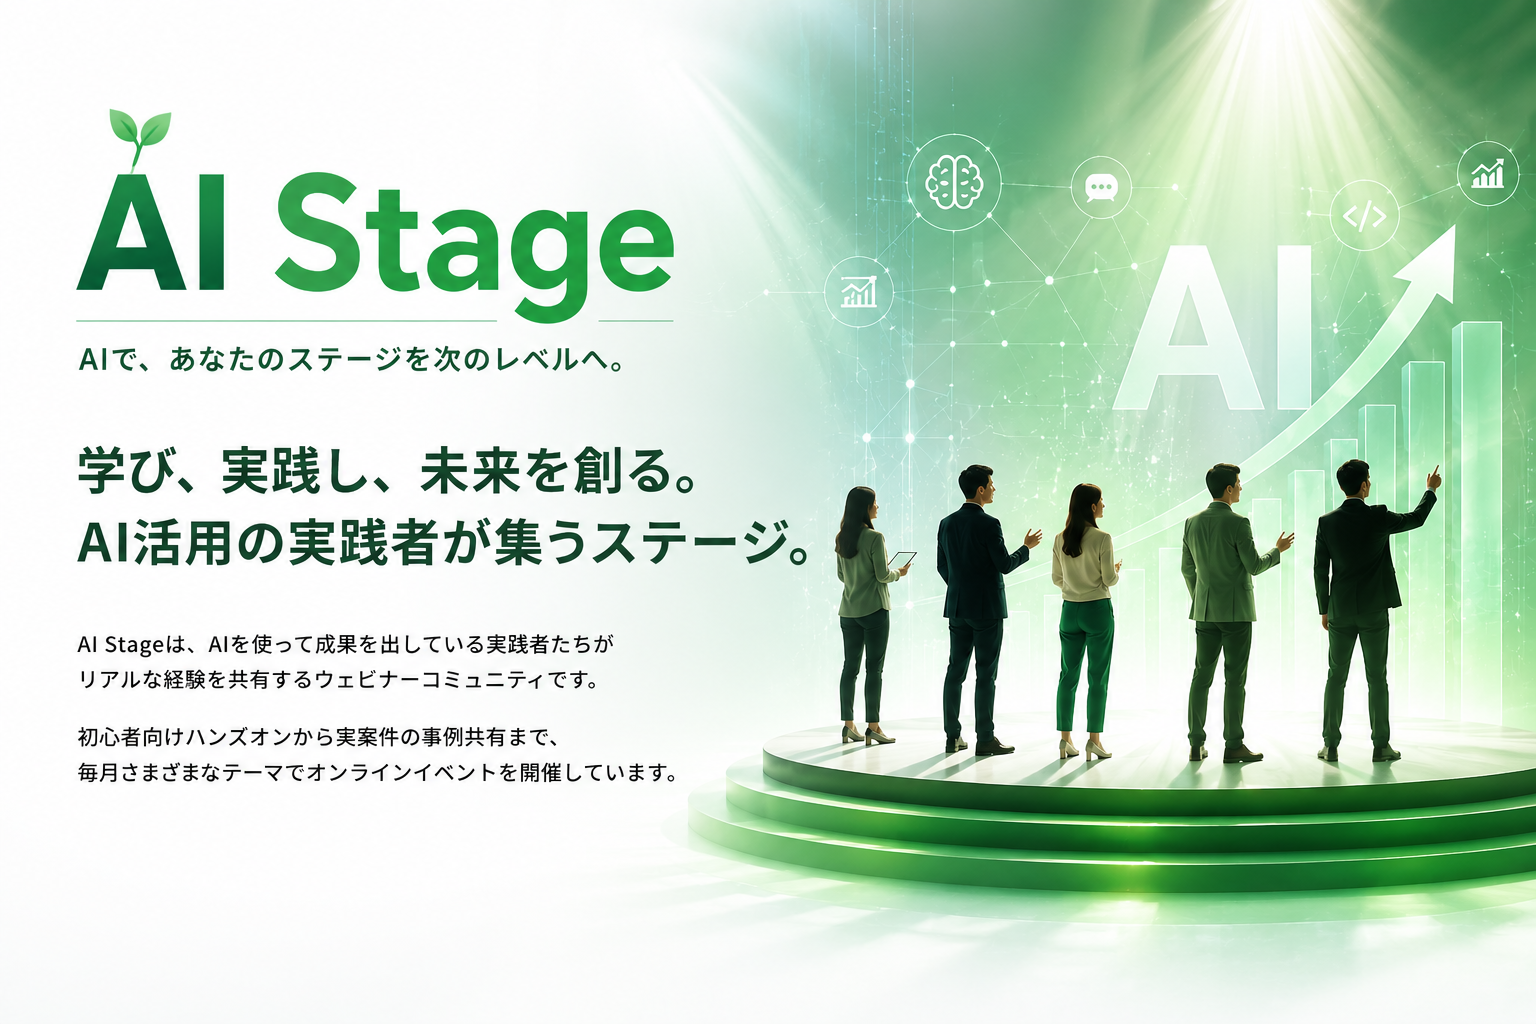
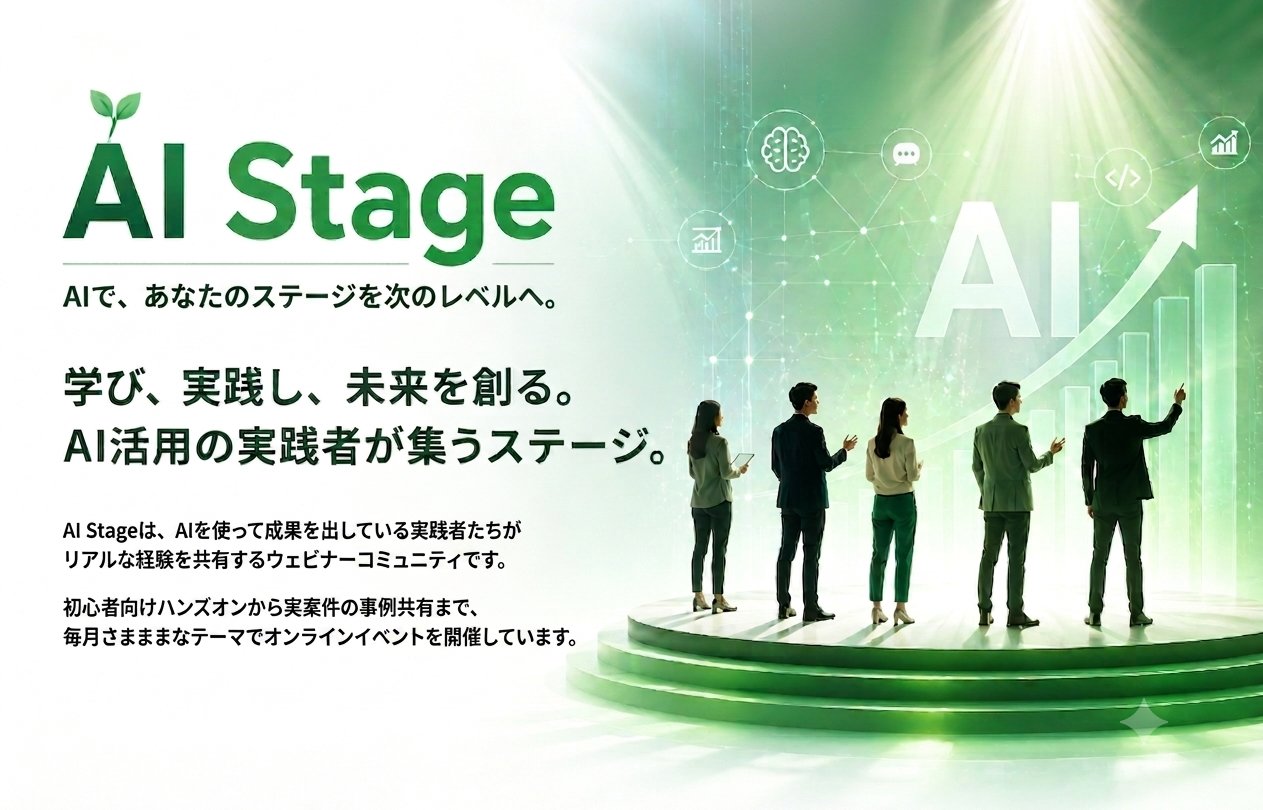
メンバープロフィールをフォーム回答に更新・フォントサイズ調整
- フォーム回答があった5名（Hitoshi Lab/miomiu/勝又稔宏/ひっきー/みさき）のプロフィールを本人回答内容に更新
- サイト内の表示名をフォーム回答名に統一（Toshihiro Katsumata→勝又稔宏、Hitoshi→Hitoshi Lab、清水秀明→ひっきー）
- #about .section-desc のfont-sizeをclampから18pxに統一
- 開催実績・募集中詳細・登壇実績・今後の予定のテキストを18px→16pxに縮小
- hero-pc.png・ogp.png を更新

diff --git a/index.html b/index.html
@@ -92,7 +92,7 @@ a:hover{opacity:.75}
   color:var(--text);
 }
 .section-desc{font-size:18px;color:var(--text2);max-width:560px}
-#about .section-desc{max-width:none;font-size:clamp(.78rem,.95rem + .1vw,1rem);}
+#about .section-desc{max-width:none;font-size:18px;}
 .section-note{font-size:.78rem;color:var(--muted);margin-top:.3rem}
 .section-header{margin-bottom:2.5rem}
 section{padding:5rem 0}
@@ -249,8 +249,8 @@ nav{
 .timeline-meta{display:flex;align-items:center;flex-wrap:wrap;gap:.5rem;margin-bottom:.5rem}
 .timeline-date{font-size:.75rem;color:var(--muted)}
 .timeline-title{font-size:1rem;font-weight:700;margin-bottom:.4rem;line-height:1.4;color:var(--text)}
-.timeline-speaker{font-size:18px;color:var(--accent);margin-bottom:.5rem}
-.timeline-desc{font-size:18px;color:var(--text2);line-height:1.6}
+.timeline-speaker{font-size:16px;color:var(--accent);margin-bottom:.5rem}
+.timeline-desc{font-size:16px;color:var(--text2);line-height:1.6}
 .timeline-stats{display:flex;flex-wrap:wrap;gap:.5rem;margin-top:.8rem}
 .timeline-peatix-link{display:inline-block;margin-top:.8rem;font-size:16px;font-weight:700;color:#15803d;background:#f0fdf4;border:1.5px solid #22c55e;border-radius:8px;padding:.45em 1.1em;text-decoration:none;transition:background .2s,color .2s;}
 .timeline-peatix-link:hover{background:#22c55e;color:#fff;}
@@ -302,7 +302,7 @@ nav{
   display:flex;align-items:center;gap:.4rem;
   font-size:18px;font-weight:600;color:var(--text);margin-bottom:1rem;
 }
-.current-event-desc{font-size:18px;color:var(--text2);line-height:1.75;margin-bottom:1.4rem}
+.current-event-desc{font-size:16px;color:var(--text2);line-height:1.75;margin-bottom:1.4rem}
 .current-event-highlights{display:flex;flex-direction:column;gap:.5rem;margin-bottom:1.6rem}
 .highlight-item{
   display:flex;align-items:flex-start;gap:.6rem;
@@ -330,7 +330,7 @@ nav{
 }
 .upcoming-name{font-weight:700;font-size:18px;color:var(--text)}
 .upcoming-theme{font-size:18px;color:var(--accent);font-weight:600;margin:.2rem 0}
-.upcoming-desc{font-size:18px;color:var(--text2)}
+.upcoming-desc{font-size:16px;color:var(--text2)}
 
 /* ================================================================
    ABOUT SPECIALTIES
@@ -450,7 +450,7 @@ nav{
 }
 .achievement-item{
   display:flex;align-items:flex-start;gap:.5rem;
-  font-size:18px;color:#374151;line-height:1.5;
+  font-size:16px;color:#374151;line-height:1.5;
   padding:.3rem 0;border-bottom:1px solid #e5e7eb;
 }
 .achievement-item:last-child{border-bottom:none}
@@ -734,7 +734,7 @@ const CURRENT_EVENT = {
   image: "/event-gofuku.png",
   imageAlt: "第2回ウェビナー：ごふくの日LP実装事例",
   title: "ごふくの日LPで過去最高集客──AI×20時間の実装記／三代目本人登壇",
-  speaker: "Hitoshi",
+  speaker: "Hitoshi Lab",
   datetime: "2026年6月25日（木）21:00〜21:30",
   desc: "呉服店のランディングページをAIで実装し、運用まで行ったリアルなプロジェクト実践記を公開します。クライアント本人もゲストとして登壇予定。アーカイブなしのライブ限定開催です。",
   highlights: [
@@ -755,7 +755,7 @@ const PAST_EVENTS = [
     date: "2026.05",
     badge: { text: "開催済み", type: "green" },
     title: "絵が描けなくてもOK！ChatGPTで作るオリジナルLINEスタンプ",
-    speaker: "Toshihiro Katsumata",
+    speaker: "勝又稔宏",
     desc: "AI初心者でも30分でオリジナルスタンプが完成するハンズオン体験会。満足度93%を達成。",
     stats: [],
     peatixUrl: "https://peatix.com/event/5000088",
@@ -764,7 +764,7 @@ const PAST_EVENTS = [
     date: "2026.06",
     badge: { text: "受付中", type: "accent" },
     title: "ごふくの日LPで過去最高集客──AI×20時間の実装記／三代目本人登壇",
-    speaker: "Hitoshi",
+    speaker: "Hitoshi Lab",
     desc: "呉服店のLPをAIで実装し「ごふくの日」に過去最高集客を達成。三代目当主本人も登壇するリアルな対談形式。",
     stats: [],
     peatixUrl: "https://peatix.com/event/5038871",
@@ -806,18 +806,21 @@ const UPCOMING_SPEAKERS = [
 const MEMBERS = [
   /* ── 1: 現在受付中の登壇者 ── */
   {
-    name: "Hitoshi",
-    handle: "Hitoshi",
+    name: "Hitoshi Lab",
+    handle: "Hitoshi Lab",
     photo: "",
     role: "第2回登壇者",
     roleBadge: { text: "登壇済", type: "green" },
-    bio: "呉服店のLPをAIで実装し「ごふくの日」に過去最高集客を達成。制作後のモニタリング・改善運用まで一貫してサポートするマーケティング視点のAI実装が得意。",
-    specialties: ["LP制作・運用", "AIコンサル", "マーケティング", "業務改善"],
+    bio: "IT業界25年・金融基幹系出身のシニアPM/エンジニア。納期厳守とフィードバック設計、24時間以内応答を一貫して実践してきました。生成AI（Claude・Gemini・NotebookLM）を用いて「理論ではなく実クライアントの案件で動かす」ことを軸に、LP制作からAIセミナー登壇まで、作って終わりにしない伴走を信条としています。",
+    specialties: ["AXコンサルタント", "生成AI実装", "HP/LP制作", "中小企業DX支援"],
     achievements: [
-      "呉服店LPをAIで実装→ごふくの日に過去最高集客を達成",
-      "第2回Peatixウェビナー（6/25）登壇",
+      "AI Stage第2回 登壇「呉服店LP実装記 ─ AI×20時間+運用5日」(2026/6/25)",
+      "AI Stage第1回 サポート担当",
+      "AI体験会(NotebookLM)を主催・登壇 ─ 満足度4.60/5・理解度95%向上",
     ],
-    links: [],
+    links: [
+      { label: "公式サイト", url: "https://fastidious-crostata-5713f7.netlify.app/", primary: true },
+    ],
   },
   /* ── 2: 次回登壇者 ── */
   {
@@ -826,12 +829,17 @@ const MEMBERS = [
     photo: "",
     role: "7月登壇予定",
     roleBadge: { text: "登壇予定", type: "yellow" },
-    bio: "元PC講師として業務整理を長年手がけてきた実践者。難しいツールの話より「社長の業務から一緒に考える」スタイルで、AIが気になるけど何に使えばいいかわからない中小企業の経営者向けに7月登壇準備中。",
-    specialties: ["元PC講師", "業務整理・棚卸し", "中小企業AI活用"],
+    bio: "IT担当者がいない中小企業の「社外AI担当」として、業務整理からAI活用の定着までを支援しています。ITサポート・PC講師の経験を活かし、ツール導入ありきではなく、まず業務を整理してから。事務作業に追われる時間を減らし、経営者が本業に集中できる環境づくりを伴走します。「AIに興味はあるけれど、何から始めればいいか分からない」そんな方の最初の一歩を一緒に整理します。",
+    specialties: ["中小企業支援", "業務整理", "社外AI担当", "AI導入支援", "事務効率化", "ITサポート", "PC講師"],
     achievements: [
-      "その仕事、本当に社長がやる必要ありますか？7月ウェビナー登壇準備中",
+      "2026年7月 Peatix登壇予定「その仕事、本当に社長がやる必要ありますか？」",
+      "ソフトバンク主催ハッカソン 第3位入賞",
+      "ITサポート・PC講師として、初心者向けのPC操作・業務効率化をサポート",
+      "IT担当者がいない中小企業向けに、業務整理から始めるAI活用支援を実施",
     ],
-    links: [],
+    links: [
+      { label: "公式サイト", url: "https://node-ai.jp", primary: true },
+    ],
   },
   /* ── 3: 次々回登壇者 ── */
   {
@@ -850,16 +858,16 @@ const MEMBERS = [
   },
   /* ── 4: 過去登壇者（新しい順）── */
   {
-    name: "Toshihiro Katsumata",
+    name: "勝又稔宏",
     handle: "かっちゃん",
     photo: "",
     role: "第1回登壇者",
     roleBadge: { text: "登壇済", type: "green" },
-    bio: "Blue Coding主宰。AIで絵が描けなくてもオリジナルLINEスタンプを作る体験会を開催し、満足度93%を達成。自治体向け子ども向けアプリ作成教室も実施。",
-    specialties: ["AI画像生成", "LINEスタンプ制作", "AIクリエイティブ", "中小企業支援"],
+    bio: "AIでマンガやLINEスタンプ作成を行なっています！",
+    specialties: ["マンガ作成", "LINEスタンプ作成"],
     achievements: [
-      "第1回Peatixウェビナー登壇（参加者25名・満足度93%）",
-      "自治体主催・子ども向けアプリ作成教室を実施",
+      "第1回ウェビナー（LINEスタンプ作成）で登壇",
+      "地元自治体で子ども向けアプリ作成セミナー開催",
     ],
     links: [
       { label: "公式サイト", url: "https://bluecoding.jp/", primary: true },
@@ -908,21 +916,18 @@ const MEMBERS = [
     links: [],
   },
   {
-    name: "清水 秀明",
+    name: "ひっきー",
     handle: "ひっきー",
     photo: "",
     role: "ファシリテーター・MTG進行",
     roleBadge: { text: "運営", type: "accent" },
-    bio: "早稲田大学理工学部卒業。放送局技術職として働きながら、ライターやアプリ開発などを行う。MTGのファシリテートと議事録を担う縁の下の力持ち。",
-    specialties: ["モビリティライティング", "Google Workspace AI", "GASアプリ開発", "韓国語"],
+    bio: "放送局の技術職正社員として30年以上の勤務を経て、セカンドキャリアのためにAI活用を始めました。ライティングからスタートして、オフライン講習会のサポート講師、オンライン講習会の講師など実績を積み上げ、今は企業のDX化を生成AIを活用して支援しています。",
+    specialties: ["AI活用業務効率化", "SEOライティング", "企業AI活用支援"],
     achievements: [
-      "全ミーティングのファシリテート・議事録作成",
-      "モビリティライターとして自動車・交通インフラ分野の記事を執筆（merkmal-biz.jp）",
-      "韓国語学習サイト KOREACT に記事執筆",
-      "居住支援法人向けタイムコードWebアプリをGASで開発・提供",
+      "当コミュニティでのファシリテーター",
     ],
     links: [
-      { label: "執筆記事を見る", url: "https://merkmal-biz.jp/post/writer/hideaki-shimizu", primary: true },
+      { label: "X（Twitter）", url: "https://x.com/hickey_9999", primary: true },
     ],
   },
   {
@@ -931,9 +936,12 @@ const MEMBERS = [
     photo: "",
     role: "メンバー",
     roleBadge: { text: "運営", type: "accent" },
-    bio: "Google Cloud Platformや環境構築にも積極的に取り組んでおり、コーディングからデプロイまで幅広く対応。",
-    specialties: ["Claude Code", "Google Cloud Platform", "Webアプリ開発"],
-    achievements: [],
+    bio: "富山を拠点に個人事業主向けのAI業務改善・コンサルとして活動中。「地方で働く人が雑務から解放され、やりたいことに集中できる」をビジョンに、美容室など小規模事業者の業務効率化を支援しています。",
+    specialties: ["AIコンサル", "業務効率化", "個人事業主支援"],
+    achievements: [
+      "AI初心者向け作業会を主催・開催",
+      "美容室クライアントの業務改善を支援中",
+    ],
     links: [],
   },
   {